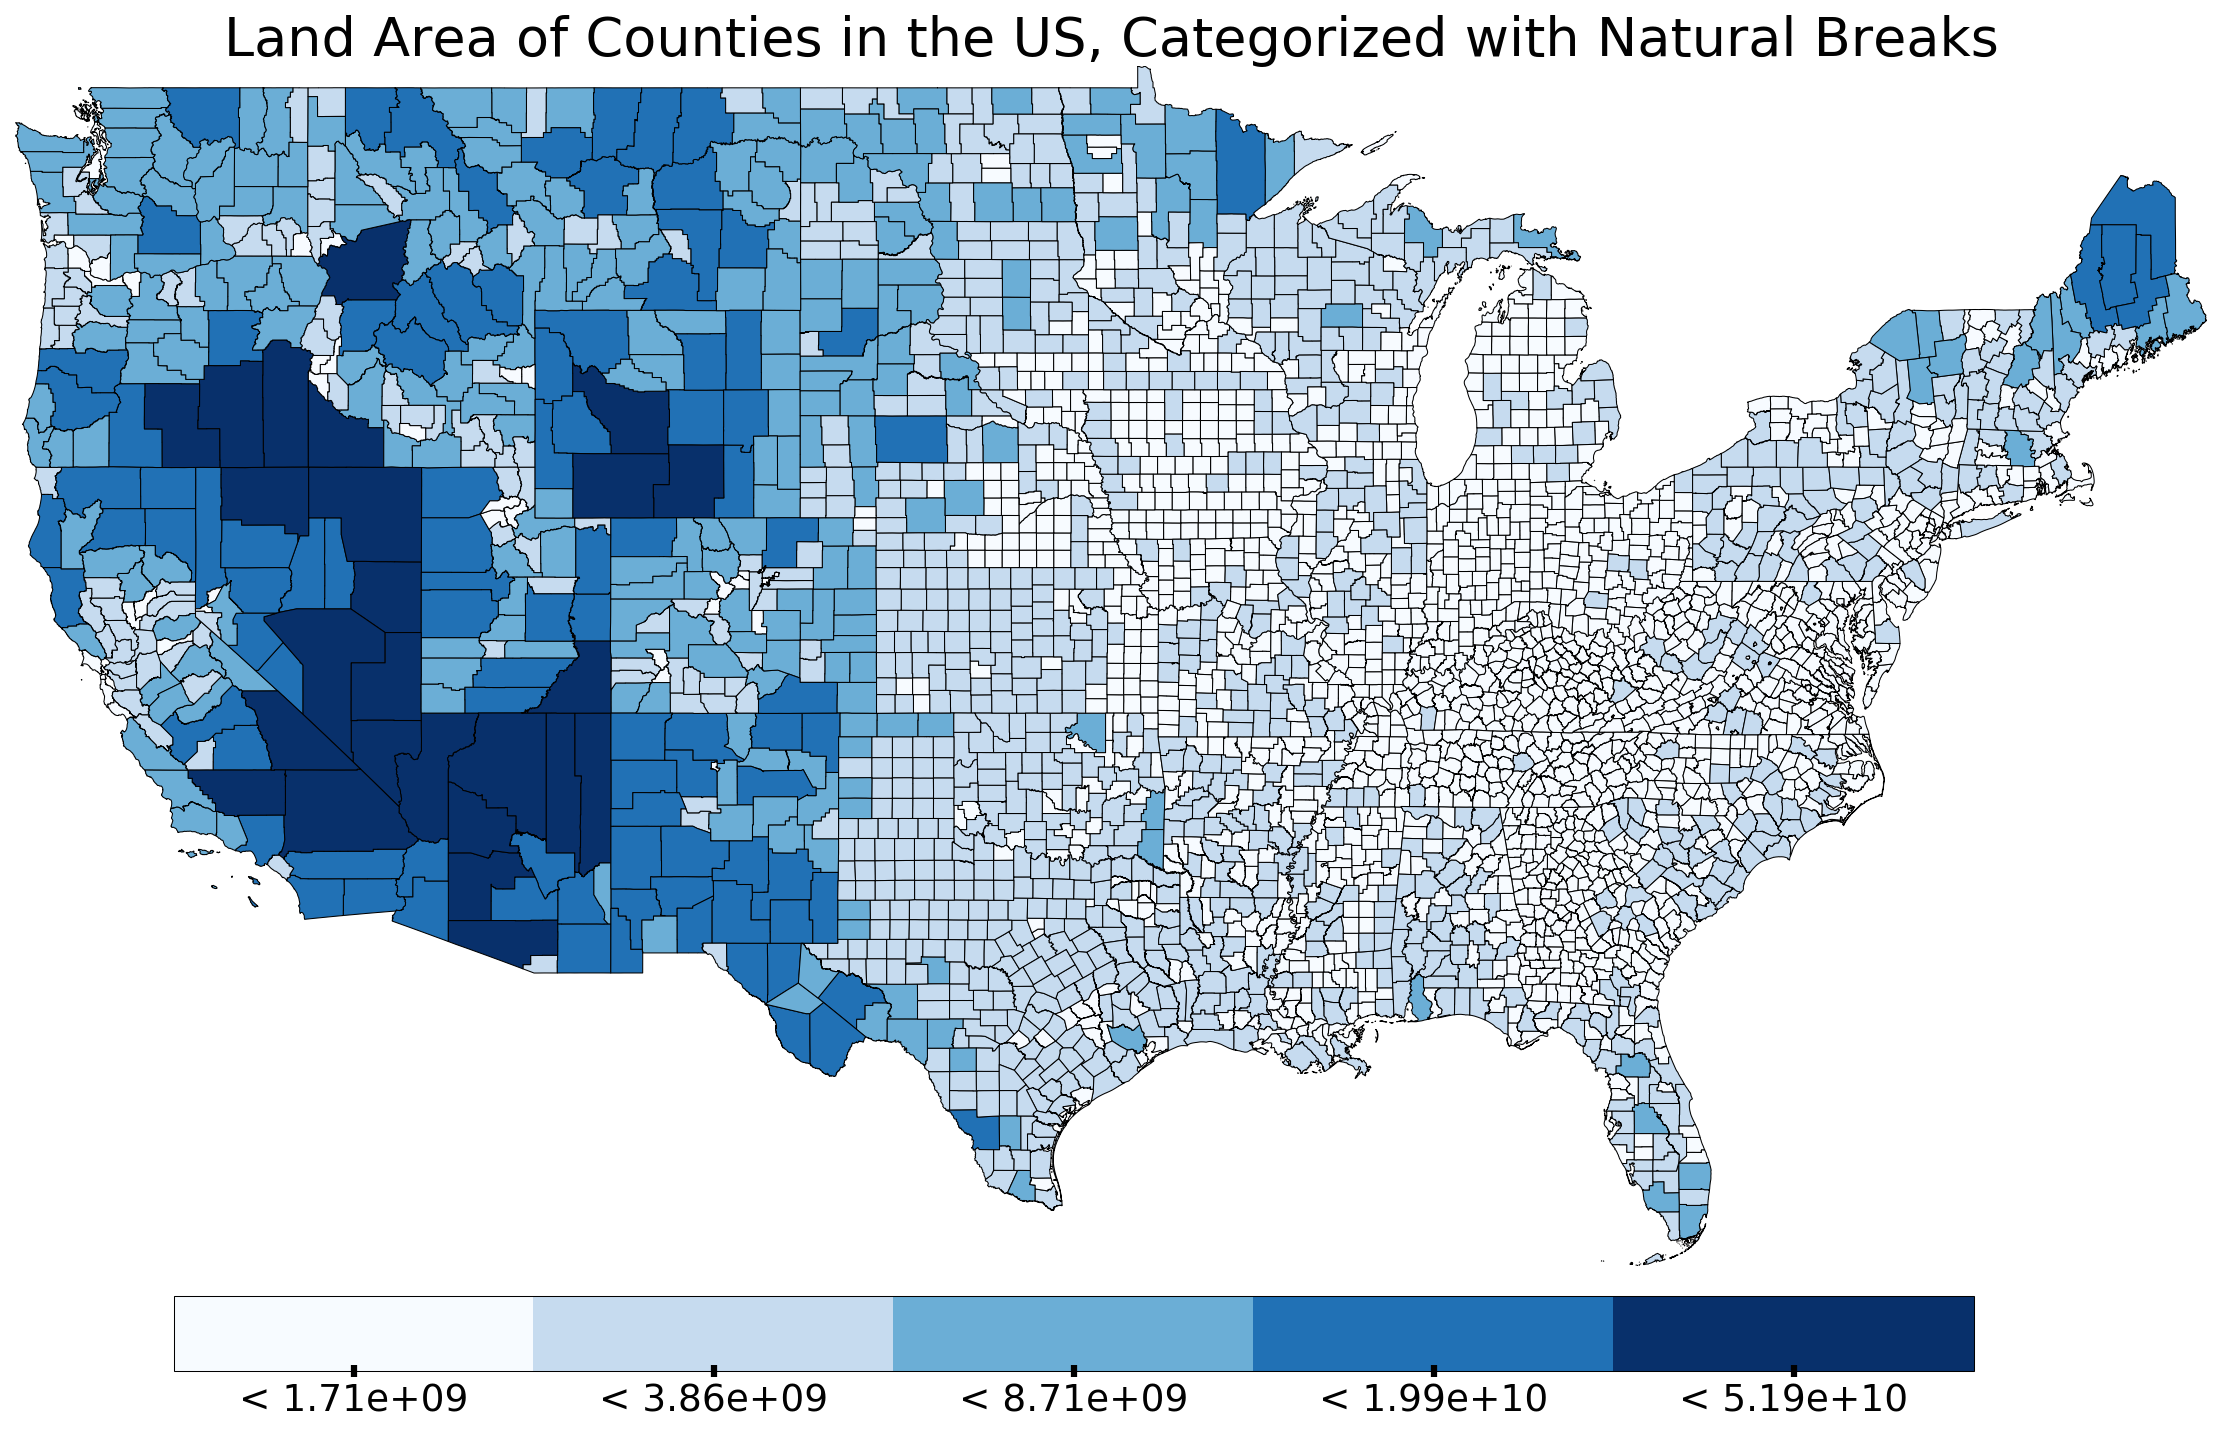
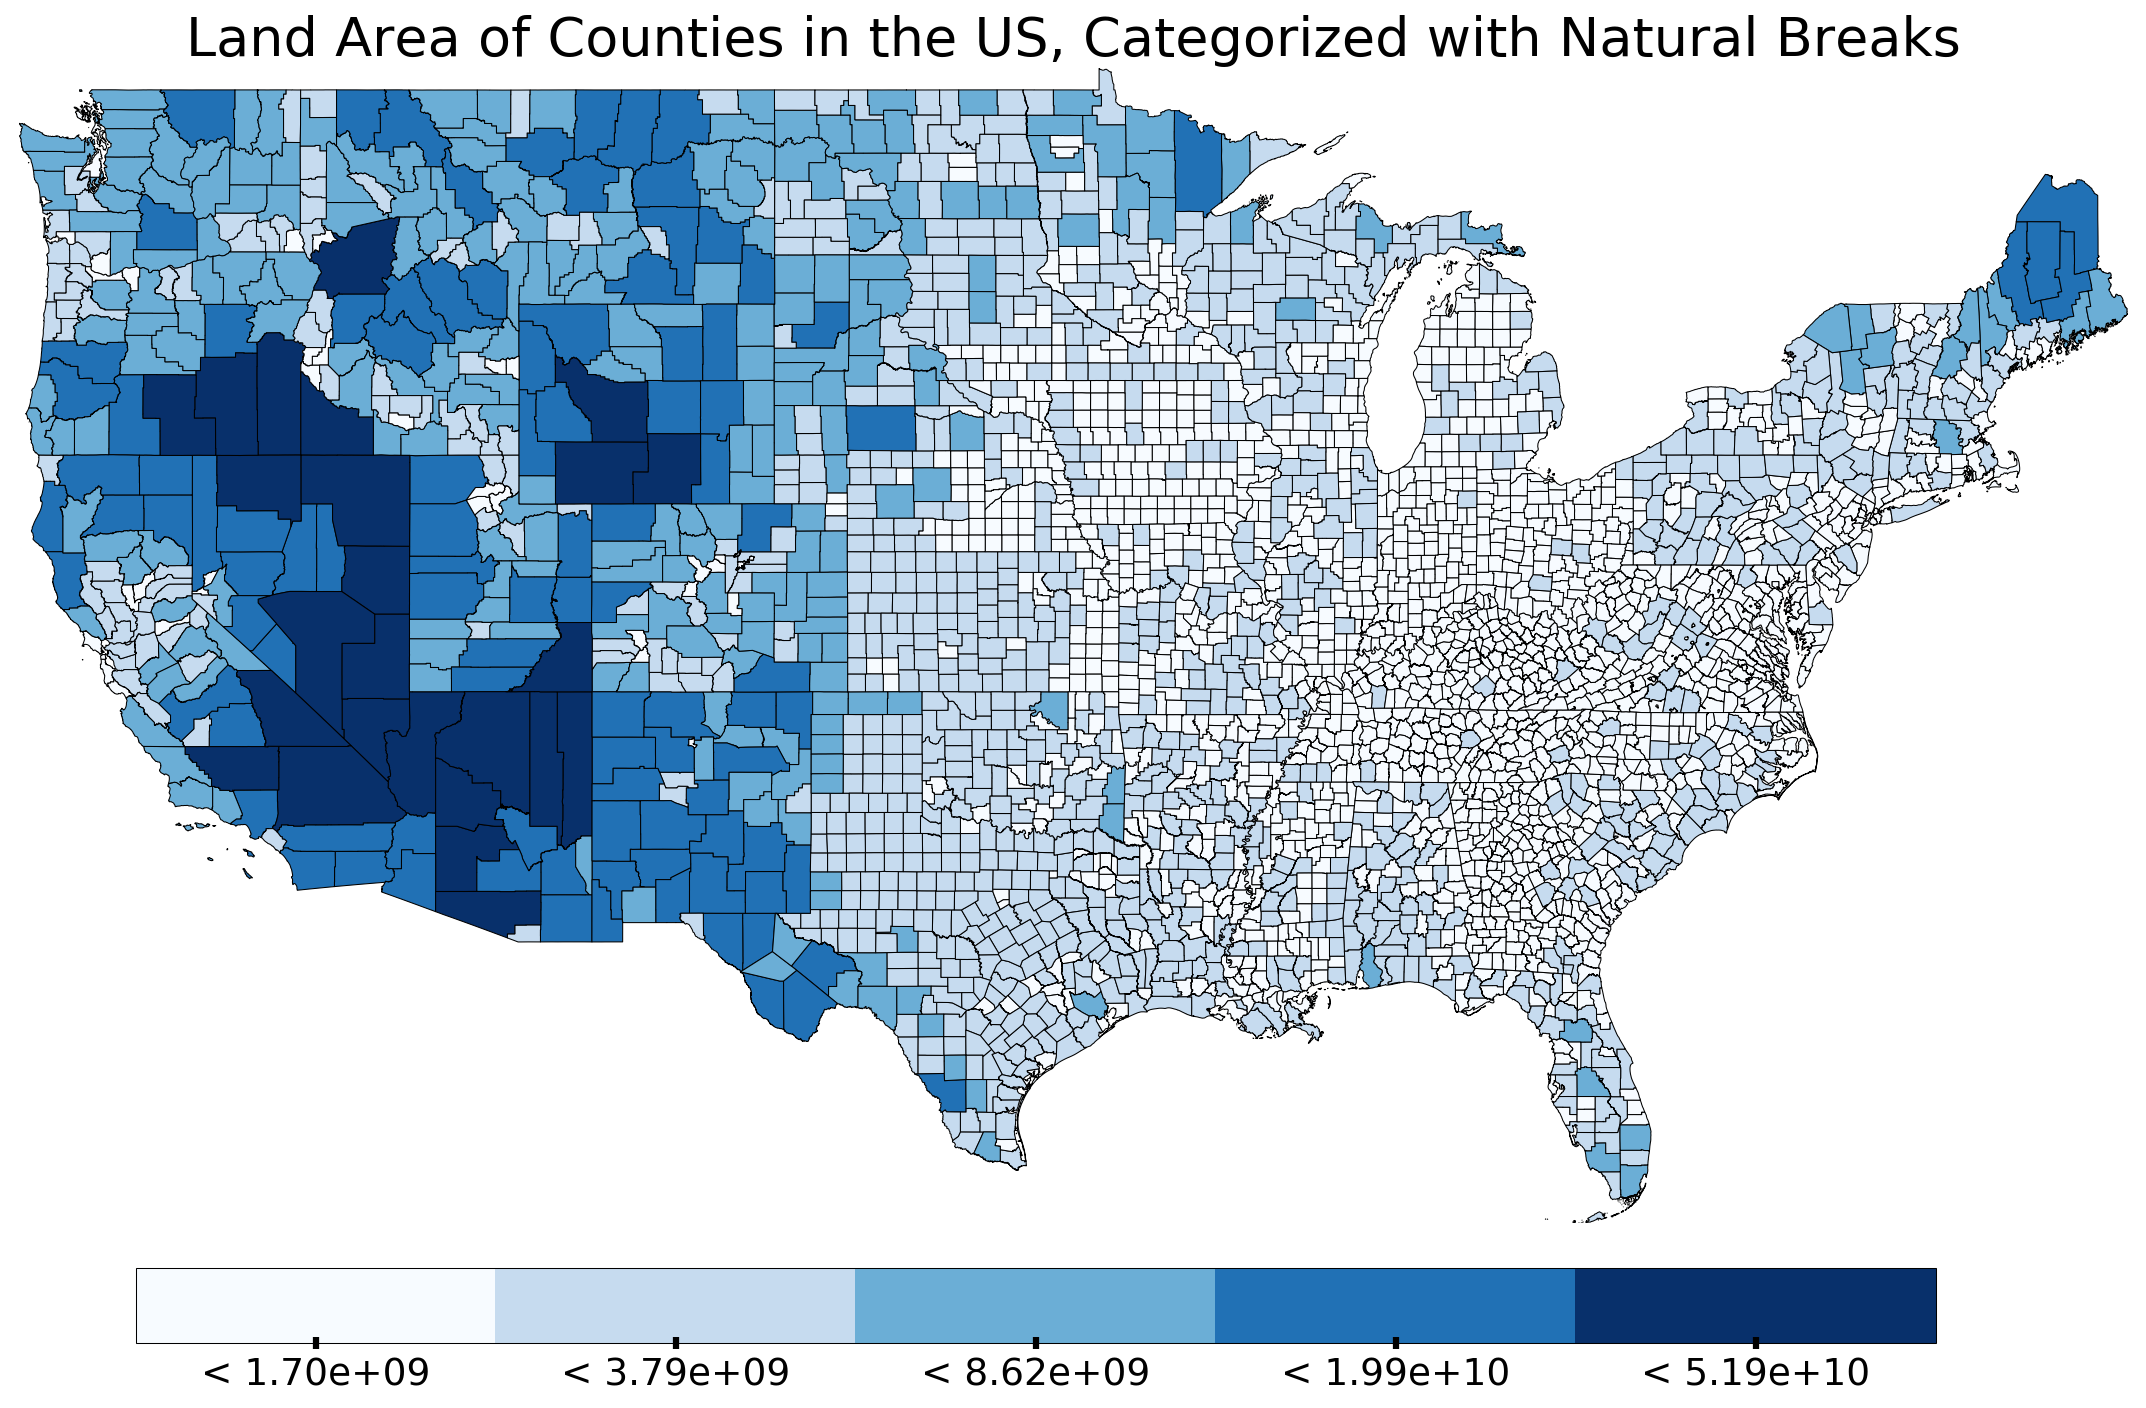
0. Shape edges are now black by default

Changed region(s): [[0.0, 0.0, 0.9991, 1.0]]

diff --git a/simplemaps/SimpleFigures.py b/simplemaps/SimpleFigures.py
@@ -280,7 +280,7 @@ def simpleMap(
     # Setup Figure
     #--------------------------------------------------------------------------------------------------
     fig = plt.figure()
-    ax = fig.add_subplot(1, 1, 1, axisbg='#ffffff', frame_on=False)
+    ax = fig.add_subplot(1, 1, 1, facecolor='#ffffff', frame_on=False)
 
     lats, lons = None, None
     if bounds is None:
@@ -319,6 +319,7 @@ def simpleMap(
 
     for patch in patches:
         patch.set_linewidth(0.5)
+        patch.set_edgecolor("black")
 
     p = matplotlib.collections.PatchCollection(patches, match_original=True)
 
@@ -439,7 +440,7 @@ def differenceMap(
     # Setup Figure
     #--------------------------------------------------------------------------------------------------
     fig = plt.figure()
-    ax = fig.add_subplot(1, 1, 1, axisbg='#ffffff', frame_on=False)
+    ax = fig.add_subplot(1, 1, 1, facecolor='#ffffff', frame_on=False)
 
     lats, lons = None, None
     if bounds is None:
@@ -478,6 +479,7 @@ def differenceMap(
 
     for patch in patches:
         patch.set_linewidth(0.5)
+        patch.set_edgecolor("black")
 
     p = matplotlib.collections.PatchCollection(patches, match_original=True)
     

diff --git a/simplemaps/BasemapUtils.py b/simplemaps/BasemapUtils.py
@@ -160,7 +160,7 @@ def getPolygonPatches(transformer, shapefileFn, shapefileKey, filterList=None):
         yMax = max(yMax, tYmax)
         yMin = min(yMin, tYmin)
 
-        polygon = matplotlib.patches.Polygon(np.array([x,y]).T, closed=True, facecolor='grey', zorder=0, alpha=1)
+        polygon = matplotlib.patches.Polygon(np.array([x,y]).T, closed=True, facecolor='grey', zorder=0, alpha=1, linewidth=1)
         
         patches.append(polygon)
 
